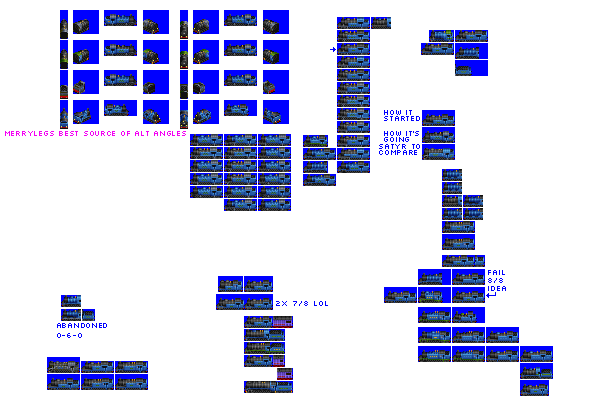
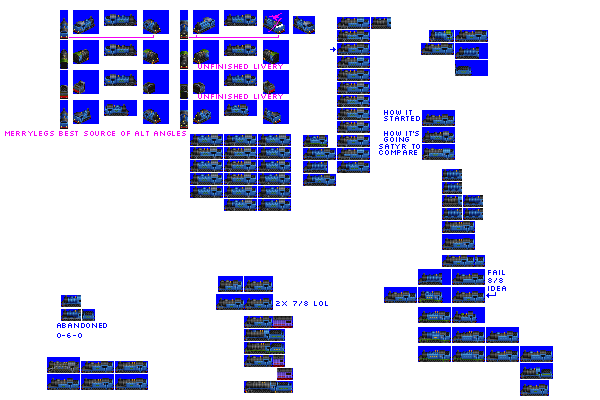
Change: WIP on Abernant sprites

diff --git a/src/vehicles/pony/abernant.py b/src/vehicles/pony/abernant.py
@@ -20,7 +20,7 @@ def main(**kwargs):
         gen=2,
         intro_year_offset=5,  # let's be a little bit later for this one
         extended_vehicle_life=True,
-        liveries=["STOCK_STANDARD", "WORKHORSE", "INDUSTRIAL_YELLOW"],
+        liveries=["STOCK_STANDARD"], #, "WORKHORSE", "INDUSTRIAL_YELLOW"],
         sprites_complete=False,
     )
 

diff --git a/src/rosters/pony.py b/src/rosters/pony.py
@@ -81,10 +81,10 @@ engine_module_names = [
     # freight
     "hercules",
     "eastern",
-    #"abernant", #CABBAGE
+    "abernant",
     "haar",
     "trojan",
-    "smizzle", #CABBAGE
+    "smizzle",
     "viking",
     "westrail",
     "xerxes",
